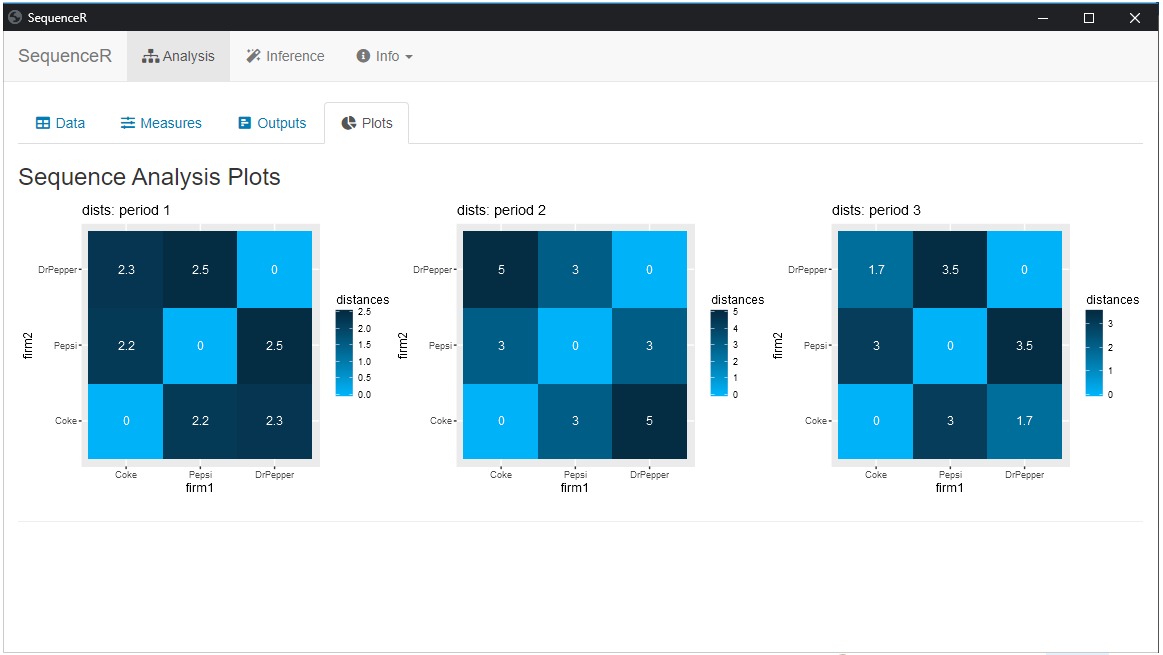
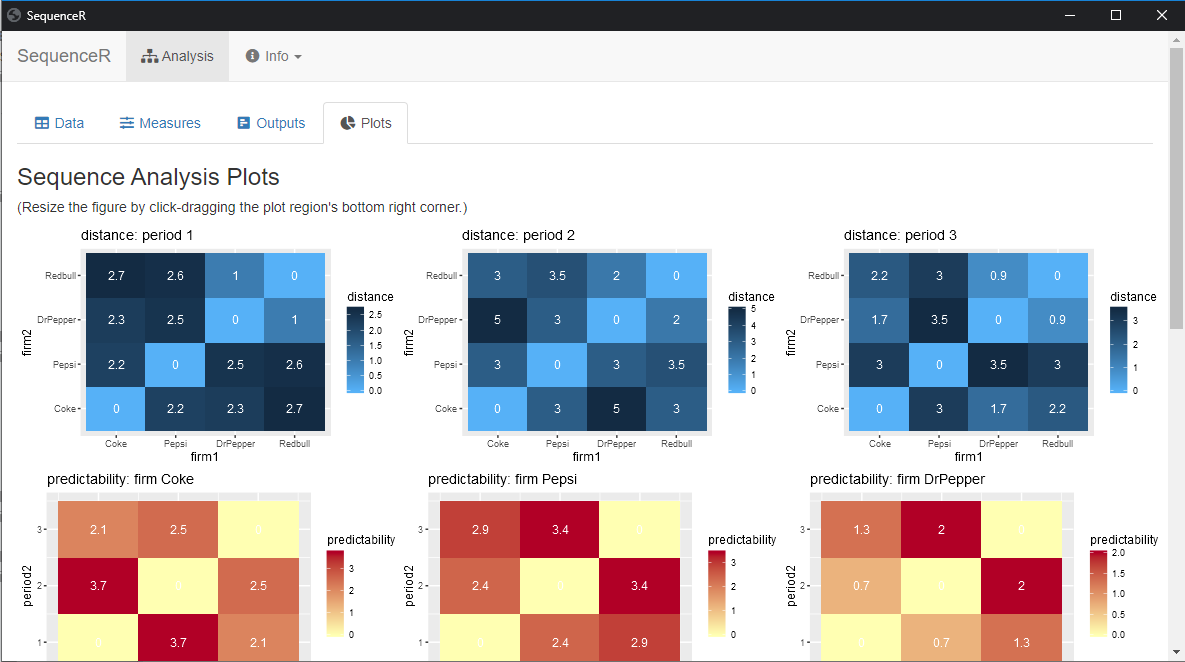
updates README and tutorial png, gif

diff --git a/README.md b/README.md
@@ -7,10 +7,11 @@
 
 | Stage | Version | Date | Download Link |
 | ----------- | ----------- | ----------- | ----------- |
-| Under Development | 0.3.1 | 2019-12-04 | [SequenceR v0.3.1 2019-12-02](https://drive.google.com/file/d/12HogXAbeZAW_VOwthCMD70ZgbkX3_ee9/view?usp=sharing, 'SequenceR v0.3.1') |
+| MVP | 0.4.1 | 2020-06-21 | [SequenceR v0.4.1 2020-06-21](https://drive.google.com/file/d/12HogXAbeZAW_VOwthCMD70ZgbkX3_ee9/view?usp=sharing, 'SequenceR v0.4.1') |
 
 Archived
- - [v0.2.0 2019-11-12](https://drive.google.com/file/d/1w94bUbP7NhzbSSg9DLZNqnQPIxvt7BIX/view?usp=sharing, 'SequenceR v0.2.0')
+ - [v0.3.1 2019-12-04](https://drive.google.com/file/d/1xcJQGmt3eQMiv9LAodLvkmEsbiDc-75w/view?usp=sharing, 'SequenceR v0.3.1')
+ - [v0.2.0 2019-11-12](https://drive.google.com/file/d/1FHvMK6yUAgqSjJkYDJlBiXKpNrMti1QF/view?usp=sharing, 'SequenceR v0.2.0')
 
 
 ## Getting Started
@@ -21,16 +22,20 @@ Archived
 
 ```
 SequenceR
-    |--GoogleChromePortable
-    |--R-Portable
-    |--shiny
-    |    └--www
-    |        └--js
+    |--GoogleChromePortable/
+    |--R-Portable/
+    |--shiny/
+    |    └--www/
+    |        └--js/
     |            └--main.js
     |    |--analysisModule.R
     |    |--app.R
     |    |--appServer.R
     |    |--appUi.R
+    |--TestData/
+    |    |--test_alphabet.csv
+    |    |--test_data.csv
+    |    └--test_subcostmat.csv
     |--run.vbs
     └--runShinyApp.R
 ```
@@ -72,6 +77,36 @@ SequenceR
 ## Changelog
 
 All notable changes to this project will be documented in this section.
+
+
+#### [0.4.1] - 2020-06-21
+```
+Added
+ - Test data
+
+Changed
+ - Updated README
+ - Moved archived SequenceR packages out of this reposity into Google Drive only
+
+Removed
+ (none)
+```
+
+#### [0.4.0] - 2020-06-20
+```
+Added
+ - Sequence measures: predictability, grouping, motif
+ - Plot image resize in app
+ - Plot save
+ - Progress spinner icons
+
+Changed
+ - Results save; fixed zip bug when saving only a subset of possible measures
+
+Removed
+ (none)
+```
+
 
 #### [0.3.0] - 2019-12-02
 ```
